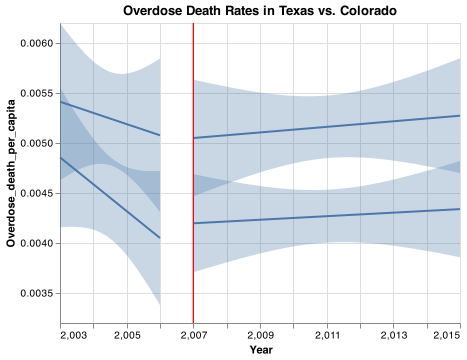
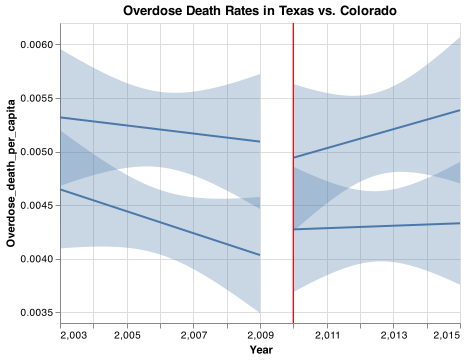
typo made for FL year, changed from 2007 to 2010

diff --git a/10_code/FL_overdose_analysis.py b/10_code/FL_overdose_analysis.py
@@ -21,28 +21,29 @@ if __name__ == "__main__":
     path_prefix = f"{pathlib.Path.cwd()}/30_results/overdose_death/"
 
     # Pre-post analysis
-    line = get_vertical_line(2007)
-    FL_pre, FL_post = pre_post_analysis(FL, 2007)
+    year = 2010
+    line = get_vertical_line(year)
+    FL_pre, FL_post = pre_post_analysis(FL, year)
     FL_pre_post_chart = alt.layer(FL_pre, FL_post, line).properties()
     FL_pre_post_chart.save(f"{path_prefix}FL.png")
 
     # The diff-in-diff charts between each comparison state
     # Texas vs. Arizona
-    AZ_pre, AZ_post = pre_post_analysis(AZ, 2007)
+    AZ_pre, AZ_post = pre_post_analysis(AZ, year)
     FL_vs_AZ = alt.layer(FL_pre_post_chart, AZ_pre + AZ_post, line).properties(
         title="Overdose Death Rates in Texas vs. AZsconsin"
     )
     FL_vs_AZ.save(f"{path_prefix}FL_vs_AZ.png")
 
     # Texas vs. Louisiana
-    LA_pre, LA_post = pre_post_analysis(LA, 2007)
+    LA_pre, LA_post = pre_post_analysis(LA, year)
     FL_vs_LA = alt.layer(FL_pre_post_chart, LA_pre + LA_post, line).properties(
         title="Overdose Death Rates in Texas vs. Louisiana"
     )
     FL_vs_LA.save(f"{path_prefix}FL_vs_LA.png")
 
     # Texas vs. Colorado
-    CO_pre, CO_post = pre_post_analysis(CO, 2007)
+    CO_pre, CO_post = pre_post_analysis(CO, year)
     FL_vs_CO = alt.layer(FL_pre_post_chart, CO_pre + CO_post, line).properties(
         title="Overdose Death Rates in Texas vs. Colorado"
     )
